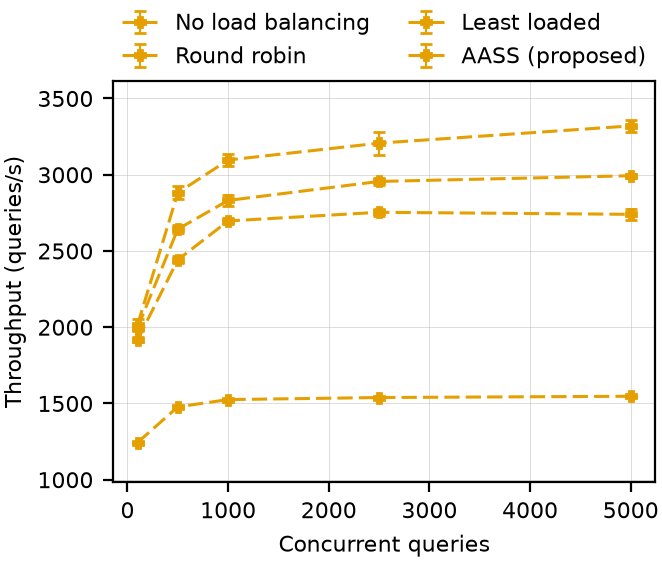
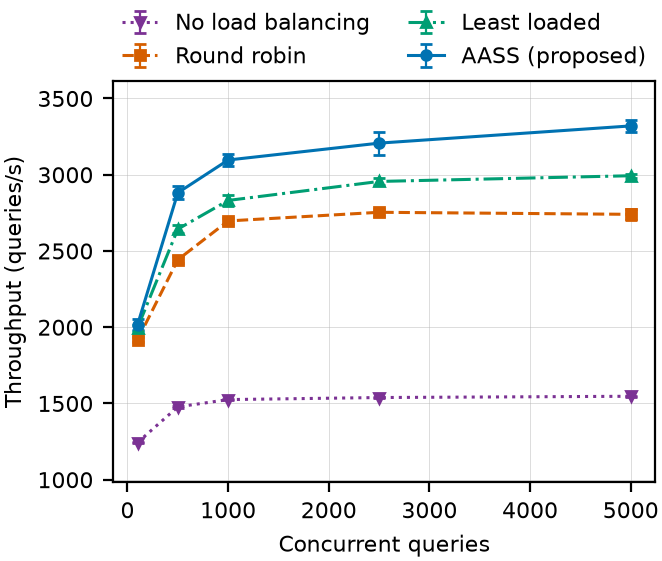
fix(plots): Exp. 7-8 drew all four ablation curves in one identical style
style_for() keys on STYLE_ORDER, which holds SCHEME names. Exp. 7-8 are an
ablation of one scheme, so their four series carry variant labels ("Round
robin", "AASS (proposed)", ...) that are not in it -- every one fell through to
the same out-of-range index and got byte-identical styling: #E69F00, marker "P",
linestyle (0,(5,2)). a237107 fixed COLLECTING four series and left them STYLED
as one, so the four-way comparison §V claims rendered as a single tangle in
which no curve could be told from another.

Each variant now has its own colour, marker and linestyle -- 4 of 4 distinct on
all three channels.

Palette chosen by running the dataviz validator (--mode light --pairs all, since
all four curves are visible simultaneously), not by eye:
  #7B3294 no_lb / #D55E00 round_robin / #009E73 least_loaded / #0072B2 aass
  CVD worst pair dE 6.7 deutan, normal-vision worst 18.7, all four >= 3:1 on white.
The alternative of #E69F00 orange in place of the purple scores better on CVD
(dE 11.0) but sits at 2.19:1 against white. At 1.1pt in a printed figure that is
a legibility failure for every reader, whereas the 6-8 CVD band is explicitly
legal where secondary encoding exists -- and marker plus linestyle both vary by
design here (README §10's grayscale requirement), so identity never rests on hue
alone. Contrast wins.

aass keeps #0072B2/"o"/"-", the styling ma_lb_pq_vdse already carries in the
cross-scheme figures, so the proposed scheme looks the same across all eight.
[…]

diff --git a/Plots/generate_plots.py b/Plots/generate_plots.py
@@ -114,8 +114,40 @@ MARKERS = ("o", "s", "^", "D", "v", "P", "X")
 LINESTYLES = ("-", "--", "-.", ":", (0, (3, 1, 1, 1)), (0, (5, 2)), (0, (1, 1)))
 COLORS = ("#0072B2", "#D55E00", "#009E73", "#CC79A7", "#56B4E9", "#E69F00", "#000000")
 
+# Exp. 7-8 are an ablation of ONE scheme, so their four series are variants, not
+# schemes, and their labels are absent from STYLE_ORDER. style_for() fell through
+# to the same out-of-range index for all four, giving every curve the identical
+# colour, marker AND linestyle: #E69F00 / "P" / (0,(5,2)). a237107 fixed
+# COLLECTING four series and left them STYLED as one, so the four-way comparison
+# §V claims rendered as a single indistinguishable tangle.
+#
+# Palette chosen by running the dataviz validator, not by eye
+# (--mode light --pairs all, since all four curves are visible at once):
+#   blue/vermillion/green/dark-purple -> CVD worst pair dE 6.7 (deutan),
+#   normal-vision worst 18.7, and ALL FOUR clear 3:1 contrast on white.
+# The obvious alternative, swapping dark purple for #E69F00 orange, scores
+# better on CVD (dE 11.0) but leaves the orange at 2.19:1 against white. These
+# are 1.1pt lines in a PRINTED figure: sub-3:1 is a legibility failure for every
+# reader, while the 6-8 CVD band is explicitly legal where secondary encoding
+# exists -- and here marker and linestyle both vary by design (README §10's
+# grayscale requirement), so identity never rests on hue alone. Contrast wins.
+#
+# aass keeps #0072B2/"o"/"-", the same styling ma_lb_pq_vdse carries in the
+# cross-scheme figures, so the proposed thing looks the same in all eight.
+# no_lb takes the purple: it is the pair closest to blue under deuteranopia, and
+# no_lb is also the curve furthest from aass in value (1547 vs 3320 q/s, sigma
+# 0.39 vs 0.086), so proximity in hue costs nothing at the distance they sit.
+ABLATION_STYLES: Dict[str, Dict[str, object]] = {
+    "No load balancing": {"color": "#7B3294", "marker": "v", "linestyle": ":"},
+    "Round robin":       {"color": "#D55E00", "marker": "s", "linestyle": "--"},
+    "Least loaded":      {"color": "#009E73", "marker": "^", "linestyle": "-."},
+    "AASS (proposed)":   {"color": "#0072B2", "marker": "o", "linestyle": "-"},
+}
+
 
 def style_for(scheme: str) -> Dict[str, object]:
+    if scheme in ABLATION_STYLES:
+        return dict(ABLATION_STYLES[scheme])
     idx = STYLE_ORDER.index(scheme) if scheme in STYLE_ORDER else len(STYLE_ORDER)
     return {
         "marker": MARKERS[idx % len(MARKERS)],
@@ -344,9 +376,15 @@ def render(spec: ExperimentSpec, series_list: Sequence[Series],
         return False, [f"exp{spec.number}: no results.csv found for any scheme"]
 
     fig, ax = plt.subplots()
-    for series in sorted(series_list,
-                         key=lambda s: STYLE_ORDER.index(s.scheme)
-                         if s.scheme in STYLE_ORDER else 99):
+    def _draw_order(s: "Series") -> int:
+        # Ablation labels are not schemes; without this they all tied at 99 and
+        # the legend order depended on collection order rather than intent.
+        labels = [lbl for _, lbl in ABLATION_VARIANTS]
+        if s.scheme in labels:
+            return labels.index(s.scheme)
+        return STYLE_ORDER.index(s.scheme) if s.scheme in STYLE_ORDER else 99
+
+    for series in sorted(series_list, key=_draw_order):
         label = SCHEME_LABELS.get(series.scheme, series.scheme)
         # A series that stops short of the sweep is a DISCLOSED CAP, not missing
         # data -- guo_vdsse's Exp. 2 ends at N=2e5 because its forward index is
